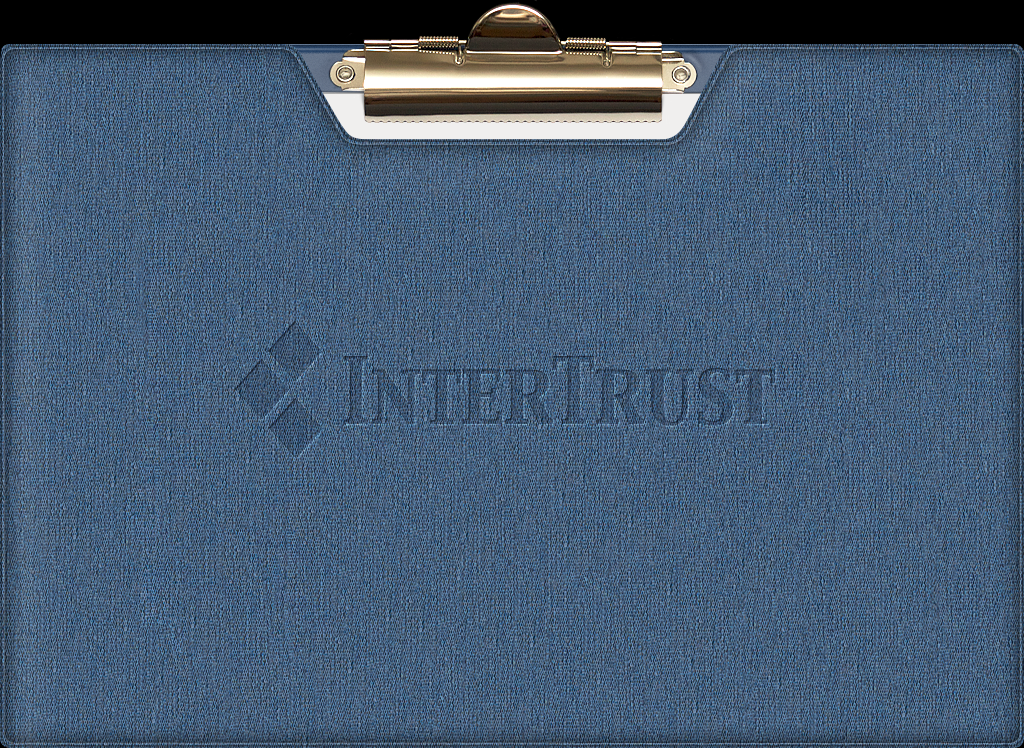
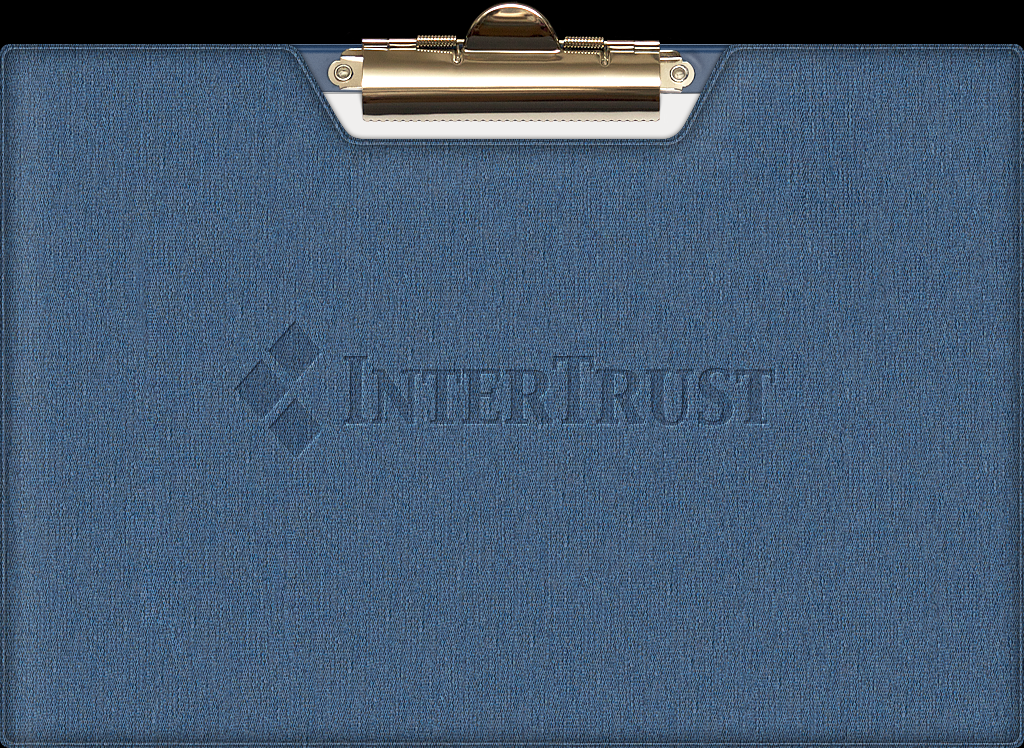
fixed bootscreen issues

diff --git a/Classes/RootViewController.m b/Classes/RootViewController.m
@@ -104,7 +104,7 @@ static NSString* SyncingContext       = @"SyncingContext";
     clipperViewController = [[ClipperViewController alloc] init];
     CGRect clipperFrame = clipperViewController.view.frame;
     clipperFrame.origin.x = round((viewSize.width - clipperFrame.size.width) / 2);
-    clipperFrame.origin.y = 0;
+    clipperFrame.origin.y = 3.f;
     clipperViewController.view.frame = clipperFrame;
     clipperViewController.view.autoresizingMask = (UIViewAutoresizingFlexibleLeftMargin | UIViewAutoresizingFlexibleRightMargin);
     
@@ -126,7 +126,7 @@ static NSString* SyncingContext       = @"SyncingContext";
 
     CGRect paperViewFrame = paperView.frame;
     paperViewFrame.origin.x = round((viewSize.width - paperViewFrame.size.width) / 2);
-    paperViewFrame.origin.y = 43;
+    paperViewFrame.origin.y = 40.f;
     paperView.frame = paperViewFrame;
     
     paperView.autoresizingMask = (UIViewAutoresizingFlexibleWidth);
@@ -263,7 +263,7 @@ static NSString* SyncingContext       = @"SyncingContext";
     
     CGRect contentViewFrame = contentView.frame;
     contentViewFrame.origin.x = round((backgroundViewFrame.size.width - contentViewFrame.size.width) / 2);
-    contentViewFrame.origin.y = 43;
+    contentViewFrame.origin.y = paperViewFrame.origin.y;
     contentView.frame = contentViewFrame;
     contentView.autoresizingMask = (UIViewAutoresizingFlexibleWidth);
 
